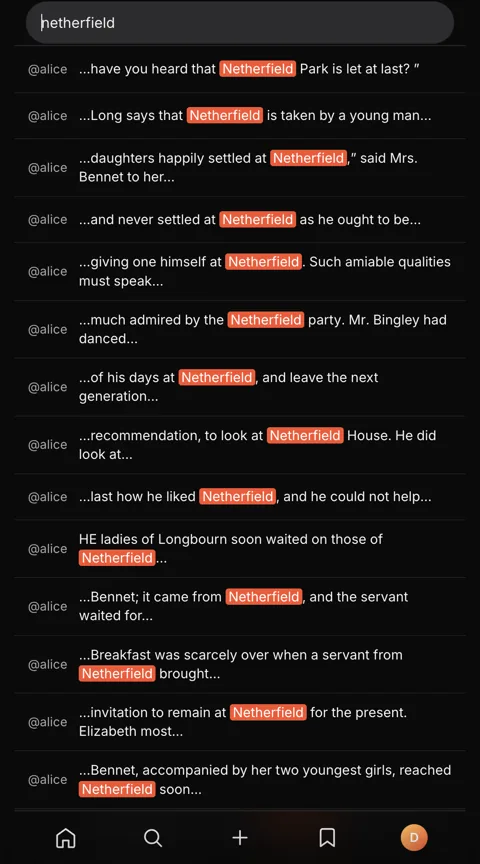
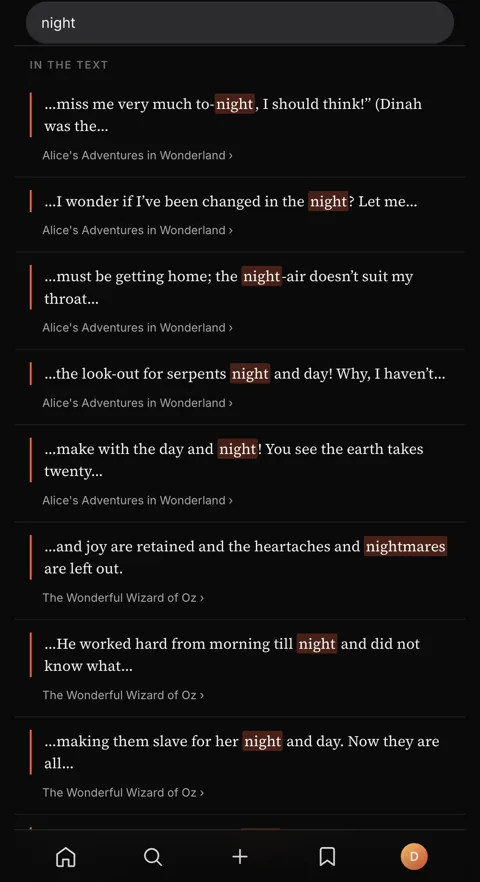
design: polish the utility screens to match the content ones
The list/utility screens were bare; bring them up to the app's standard.

- search: group results (People / Books / In the text); full-text hits
  now render as serif passage quotes with an accent rule and book source,
  instead of a flat log of @user rows
- notifications: two-line hierarchy (actor + action, book in italic) and a
  real unread state (terracotta rule + tint)
- settings: section headers, a proper toggle switch (was a raw checkbox),
  tidier rows and log-out
- shared: row hover, avatar hairline ring, friendlier empty states
- refresh the search/notifications/settings gallery screenshots

diff --git a/static/style.css b/static/style.css
@@ -253,3 +253,31 @@ body:has(.bar.foot) .bar.tab{display:none}
 .reel-actions .grow{flex:1}
 .reel-actions .btn{color:#fff}
 .reel-actions .btn .count{color:#fff;font-size:13px;margin-left:4px}
+
+/* ── utility-screen polish ── */
+.row.tap{transition:background 120ms}
+.row.tap:hover{background:rgba(255,255,255,.035)}
+.list .row .avatar,#sres .row .avatar{box-shadow:0 0 0 1px var(--rule)}
+
+.res-h{font-size:11px;font-weight:600;letter-spacing:.12em;text-transform:uppercase;color:var(--fg-tertiary);padding:20px 16px 8px}
+#sres>.res-h:first-child{padding-top:12px}
+
+.qhit{display:block;padding:13px 16px}
+.qhit+.qhit{border-top:1px solid var(--rule)}
+.qhit-text{font-family:"Source Serif 4",Georgia,serif;font-size:15.5px;line-height:1.5;color:var(--fg);margin:0 0 7px;padding-left:13px;border-left:2px solid var(--accent)}
+.qhit-text mark{background:rgba(232,93,60,.28);color:#fff;padding:0 2px;border-radius:2px}
+.qhit-src{font-size:12px;color:var(--fg-muted);padding-left:13px}
+.qhit:hover .qhit-src{color:var(--accent)}
+
+.notif .grow{display:flex;flex-direction:column;gap:1px}
+.notif-line{line-height:1.35}
+.notif-book{font-size:13px;color:var(--fg-muted);font-style:italic}
+.row.unread{background:rgba(232,93,60,.07);box-shadow:inset 3px 0 0 var(--accent)}
+
+.switch{appearance:none;-webkit-appearance:none;width:46px;height:28px;border-radius:999px;background:var(--bg-overlay);position:relative;cursor:pointer;flex:0 0 auto;transition:background 160ms;margin:0}
+.switch::after{content:"";position:absolute;top:3px;left:3px;width:22px;height:22px;border-radius:50%;background:#fff;transition:transform 160ms var(--ease)}
+.switch:checked{background:var(--accent)}
+.switch:checked::after{transform:translateX(18px)}
+
+.row.danger{width:100%;color:var(--red);gap:12px;text-align:left}
+.row.danger svg{stroke:var(--red)}

diff --git a/templates/search_results.html b/templates/search_results.html
@@ -11,21 +11,27 @@
   <span class="gen-text" aria-hidden="true"><span class="gt">{{ b['caption']|title_part }}</span>{% if b['caption']|author_part %}<span class="ga">{{ b['caption']|author_part }}</span>{% endif %}</span>{% endif %}
 </a>
 {% endfor %}</div>{% endif %}
-{% elif not (results['books'] or results['lines'] or results['users']) %}<p class="empty">No matches.</p>
+{% elif not (results['books'] or results['lines'] or results['users']) %}<p class="empty">No matches for “{{ q }}”.<br>Try a name, a title, or a phrase from a book.</p>
 {% else %}
+{% if results['users'] %}<div class="res-h">People</div>
 {% for u in results['users'] %}
-<a class="row" href="{{ url_for('profile', username=u['username']) }}">
-  <span class="avatar">{{ u['username'][0]|upper }}</span><b>{{ u['username'] }}</b>{% if u['display_name'] %}<span class="m"> · {{ u['display_name'] }}</span>{% endif %}
+<a class="row tap" href="{{ url_for('profile', username=u['username']) }}">
+  <span class="avatar">{% if u['avatar'] %}<img src="{{ u['avatar'] }}" alt="">{% else %}{{ u['username'][0]|upper }}{% endif %}</span>
+  <span class="grow"><b>{{ u['display_name'] or u['username'] }}</b><div class="m">@{{ u['username'] }}</div></span>
 </a>
-{% endfor %}
+{% endfor %}{% endif %}
+{% if results['books'] %}<div class="res-h">Books</div>
 {% for b in results['books'] %}
-<a class="row" href="{{ url_for('book_read', bid=b['id']) }}">
-  <span class="m">@{{ b['owner_username'] }}</span><span class="grow">{{ b['caption'] or 'Untitled' }}</span>
+<a class="row tap" href="{{ url_for('book_read', bid=b['id']) }}">
+  <span class="grow"><b>{{ b['caption']|title_part or 'Untitled' }}</b>{% if b['caption']|author_part %}<div class="m">{{ b['caption']|author_part }}</div>{% endif %}</span>
+  <span class="m">@{{ b['owner_username'] }}</span>
 </a>
-{% endfor %}
+{% endfor %}{% endif %}
+{% if results['lines'] %}<div class="res-h">In the text</div>
 {% for l in results['lines'] %}
-<a class="row" href="{{ url_for('book_read', bid=l['book_id']) }}#p-{{ l['idx'] }}">
-  <span class="m">@{{ l['username'] }}</span><span class="grow">{{ l['s']|safe }}</span>
+<a class="qhit" href="{{ url_for('book_read', bid=l['book_id']) }}#p-{{ l['idx'] }}">
+  <p class="qhit-text">{{ l['s']|safe }}</p>
+  <span class="qhit-src">{% if l['caption'] %}{{ l['caption']|title_part }}{% else %}@{{ l['username'] }}{% endif %} ›</span>
 </a>
-{% endfor %}
+{% endfor %}{% endif %}
 {% endif %}

diff --git a/templates/settings.html b/templates/settings.html
@@ -1,30 +1,32 @@
 {% extends layout %}
 {% block content %}
 <form method="post" action="{{ url_for('settings') }}" enctype="multipart/form-data" id="sf">
+  <div class="res-h">Profile</div>
   <label class="row tap" style="cursor:pointer">
-    <input type="file" name="avatar" accept="image/*" hidden onchange="this.parentElement.querySelector('.upico').textContent=this.files[0]?.name||''">
+    <input type="file" name="avatar" accept="image/*" hidden onchange="this.parentElement.querySelector('.upico').textContent=this.files[0]?.name||'Tap to change'">
     <span class="avatar" aria-hidden="true">{% if g.user['avatar'] %}<img src="{{ g.user['avatar'] }}" alt="">{% else %}{{ (g.user['display_name'] or g.user['username'])[0]|upper }}{% endif %}</span>
-    <span class="grow">Avatar <span class="m upico"></span></span>
+    <span class="grow"><b>Photo</b><div class="m upico">Tap to change</div></span>
     <span class="btn" aria-hidden="true">{% include "icons/upload.svg" %}</span>
   </label>
   <label class="row col">
     <span class="m">Display name</span>
-    <input class="input" name="display_name" value="{{ g.user['display_name'] or '' }}" maxlength="60">
+    <input class="input" name="display_name" value="{{ g.user['display_name'] or '' }}" maxlength="60" placeholder="{{ g.user['username'] }}">
   </label>
   <label class="row col">
     <span class="m">Bio</span>
-    <textarea class="input" name="bio" rows="3" maxlength="200">{{ g.user['bio'] or '' }}</textarea>
+    <textarea class="input" name="bio" rows="3" maxlength="200" placeholder="A line about what you read.">{{ g.user['bio'] or '' }}</textarea>
   </label>
+  <div class="res-h">Privacy</div>
   <label class="row tap">
-    <input type="checkbox" name="private" {% if g.user['private'] %}checked{% endif %}>
-    <span class="grow">Private account</span>
-    <span class="m">Only followers see your posts</span>
+    <span class="grow"><b>Private account</b><div class="m">Only followers can see your posts</div></span>
+    <input type="checkbox" name="private" class="switch" {% if g.user['private'] %}checked{% endif %}>
   </label>
 </form>
+<div class="res-h">Account</div>
 <form method="post" action="{{ url_for('logout') }}" id="lf" style="margin:0"></form>
-<button class="row tap" type="submit" form="lf" style="width:100%;border:0;background:none;font:inherit;color:var(--red);text-align:left;cursor:pointer;display:flex;align-items:center;gap:12px" aria-label="Log out">{% include "icons/logout.svg" %}<span class="grow">Log out</span></button>
+<button class="row tap danger" type="submit" form="lf" aria-label="Log out">{% include "icons/logout.svg" %}<span class="grow">Log out</span></button>
 <div class="bar foot">
   <span class="grow"></span>
-  <button class="btn primary" type="submit" form="sf" aria-label="Save">{% include "icons/check.svg" %}</button>
+  <button class="btn primary" type="submit" form="sf" aria-label="Save changes">{% include "icons/check.svg" %}</button>
 </div>
 {% endblock %}

diff --git a/templates/notifications.html b/templates/notifications.html
@@ -2,14 +2,13 @@
 {% block content %}
 <div class="list">
 {% if items %}<form method="post" action="{{ url_for('notifications_read_all') }}" style="display:flex;justify-content:flex-end;padding:6px 10px;border-bottom:1px solid var(--rule);margin:0"><button class="btn" type="submit" aria-label="Mark all as read">{% include "icons/check-double.svg" %}</button></form>{% endif %}
-{% if not items %}<div class="empty">No notifications.</div>
+{% if not items %}<div class="empty">Nothing yet.<br>Likes, comments, and mentions will land here.</div>
 {% else %}{% for n in items %}
-<a class="row tap" href="{{ url_for('profile', username=n['actor_name']) if n['kind']=='follow' else url_for('book_read', bid=n['book_id']) if n['book_id'] else url_for('home') }}">
+<a class="row tap notif{{ ' unread' if not n['read_at'] }}" href="{{ url_for('profile', username=n['actor_name']) if n['kind']=='follow' else url_for('book_read', bid=n['book_id']) if n['book_id'] else url_for('home') }}">
   <span class="avatar">{% if n['actor_avatar'] %}<img src="{{ n['actor_avatar'] }}" alt="">{% else %}{{ n['actor_name'][0]|upper }}{% endif %}</span>
   <span class="grow">
-    <b>{{ n['actor_name'] }}</b>
-    {% if n['kind']=='like' %}liked your post{% elif n['kind']=='comment' %}commented on your post{% elif n['kind']=='reply' %}replied to you{% elif n['kind']=='mention' %}mentioned you{% elif n['kind']=='follow' %}started following you{% endif %}
-    {% if n['book_caption'] %}<span class="m"> — {{ n['book_caption']|title_part }}</span>{% endif %}
+    <span class="notif-line"><b>{{ n['actor_name'] }}</b> {% if n['kind']=='like' %}liked your post{% elif n['kind']=='comment' %}commented on your post{% elif n['kind']=='reply' %}replied to you{% elif n['kind']=='mention' %}mentioned you{% elif n['kind']=='follow' %}started following you{% endif %}</span>
+    {% if n['book_caption'] %}<span class="notif-book">{{ n['book_caption']|title_part }}</span>{% endif %}
   </span>
   <span class="m">{{ n['created_at']|ago }}</span>
 </a>

diff --git a/app.py b/app.py
@@ -856,7 +856,7 @@ def search():
             f"SELECT {FEED} FROM books b JOIN users u ON u.id=b.owner_id WHERE b.status='published' AND b.visibility='public' AND b.repost_of IS NULL AND b.caption LIKE ? ORDER BY b.updated_at DESC LIMIT 12",
             (f"%{q}%",)).fetchall(), g.user)
         lines = db().execute(
-            "SELECT p.book_id, p.idx, b.owner_id, u.username, snippet(paragraphs_fts, 0, '<mark>', '</mark>', '…', 10) AS s FROM paragraphs_fts JOIN paragraphs p ON p.id=paragraphs_fts.paragraph_id JOIN books b ON b.id=p.book_id JOIN users u ON u.id=b.owner_id WHERE paragraphs_fts MATCH ? AND b.status='published' AND b.visibility='public' LIMIT 60",
+            "SELECT p.book_id, p.idx, b.owner_id, b.caption, u.username, snippet(paragraphs_fts, 0, '<mark>', '</mark>', '…', 12) AS s FROM paragraphs_fts JOIN paragraphs p ON p.id=paragraphs_fts.paragraph_id JOIN books b ON b.id=p.book_id JOIN users u ON u.id=b.owner_id WHERE paragraphs_fts MATCH ? AND b.status='published' AND b.visibility='public' LIMIT 60",
             (fq,)).fetchall()
         ctx = _vis_ctx(g.user, {r["owner_id"] for r in lines})
         results["lines"] = [r for r in lines if r["owner_id"] not in ctx["blocked"]